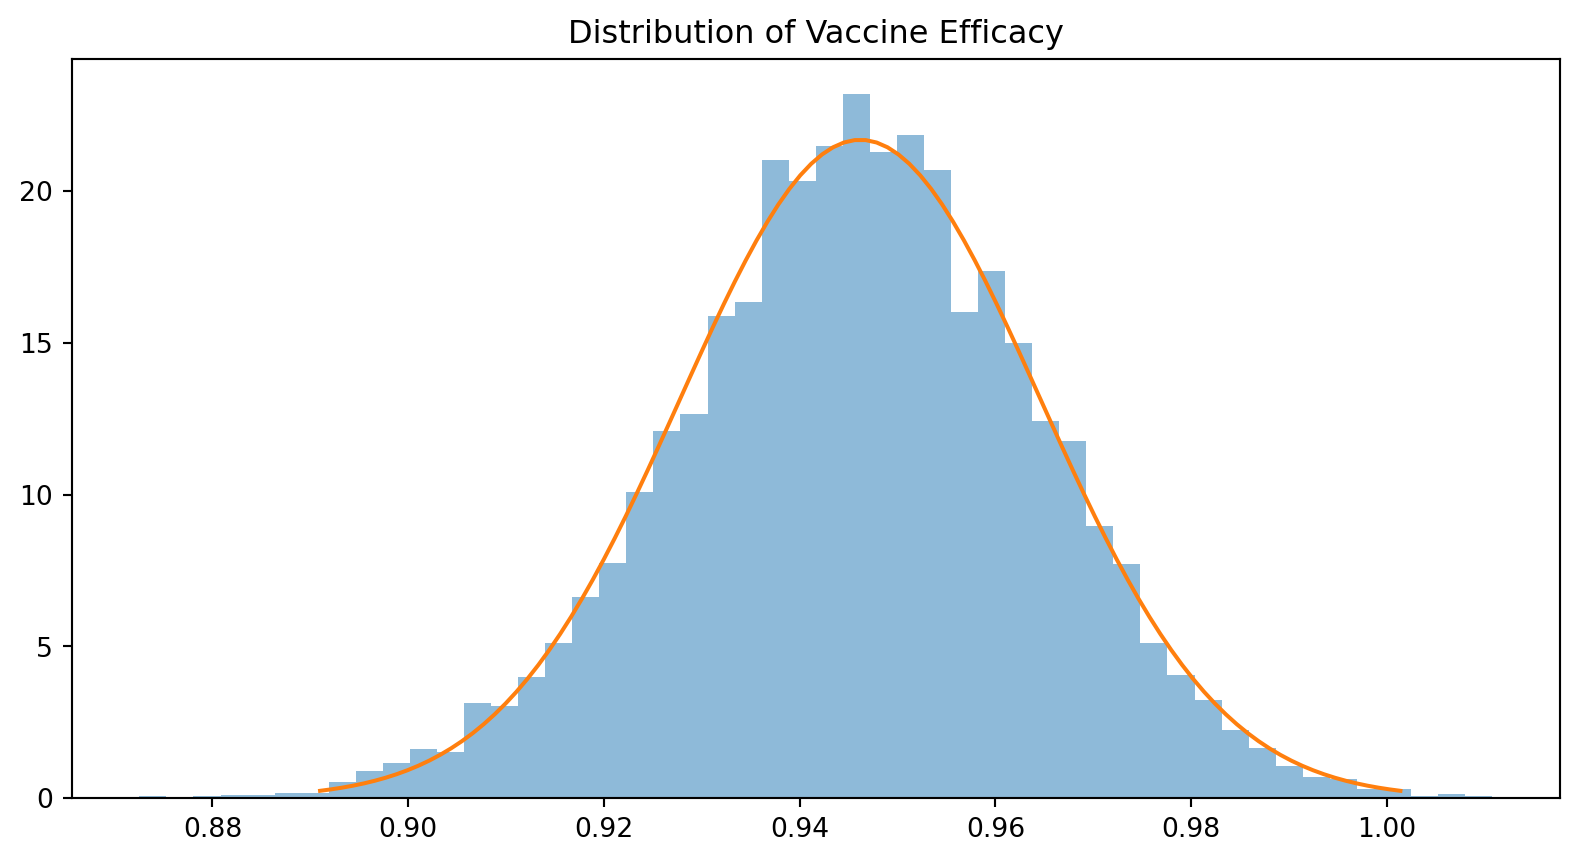
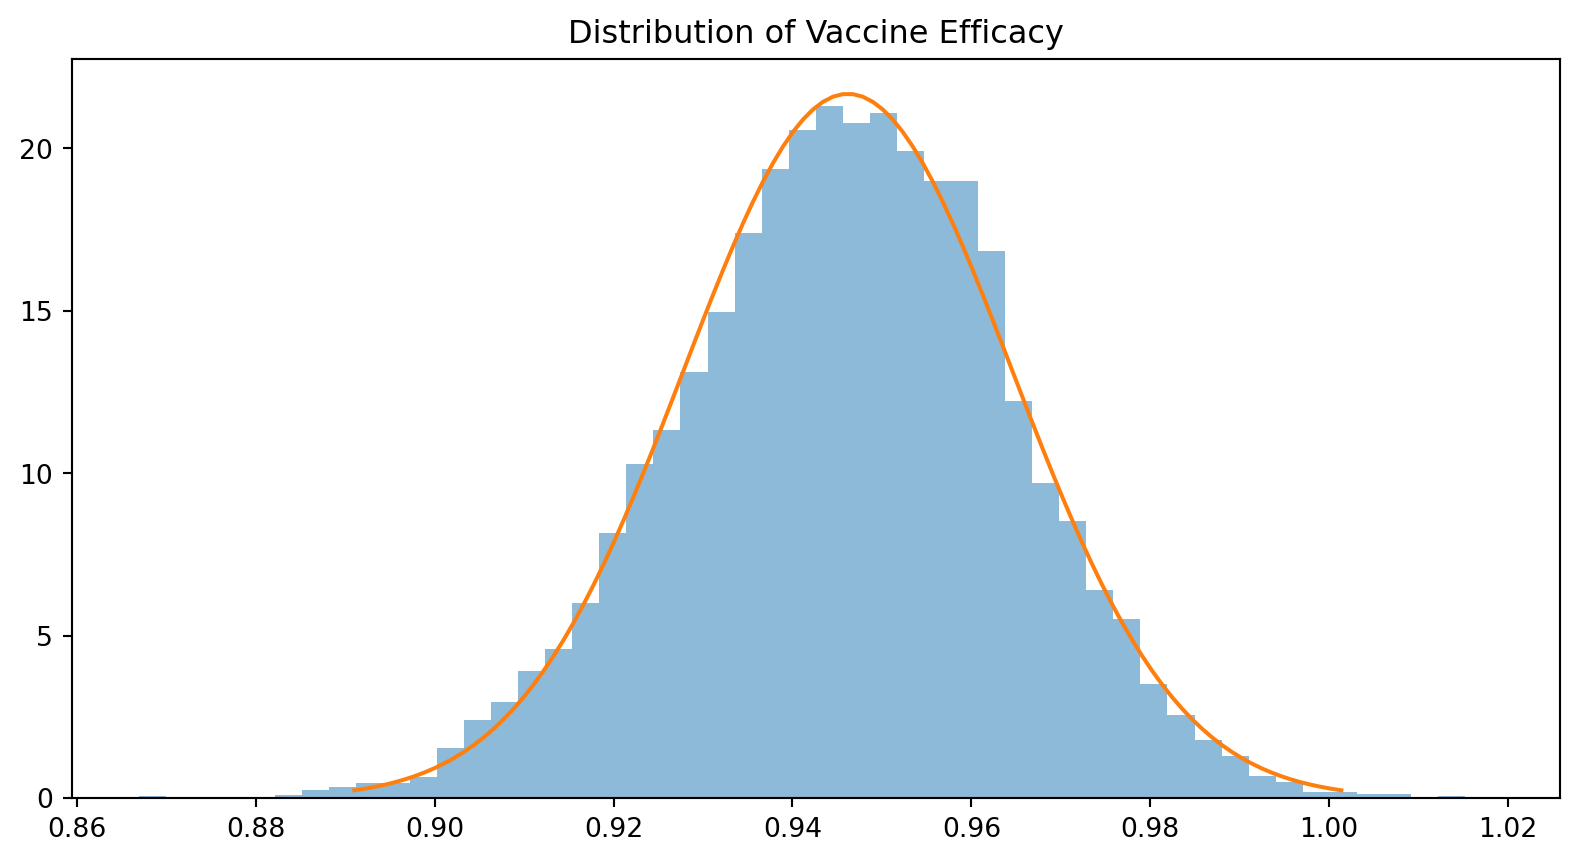
Update to Paul's slides: fix delta method ci

diff --git a/lectures/paul/uncertainty.html b/lectures/paul/uncertainty.html
@@ -522,7 +522,7 @@ P(\widehat{ATE} \in \widehat{CI}_{\alpha}) \approx 1-\alpha
 <li>Confidence interval for <span class="math inline">\(p = P(Y=1)\)</span> with i.i.d. <span class="math inline">\(Y_i \in \{0,1\}\)</span></li>
 <li>Given <span class="math inline">\(P(Y)=p\)</span> can calculate or simulate distribution of <span class="math inline">\(\hat{p} = \frac{1}{n} \sum Y_i\)</span></li>
 </ul>
-<div id="3606605a" class="cell columns column-output-location" data-execution_count="3">
+<div id="0530bbe2" class="cell columns column-output-location" data-execution_count="3">
 <div class="column">
 <div class="code-copy-outer-scaffold"><div class="sourceCode cell-code" id="cb3"><pre class="sourceCode numberSource python number-lines code-with-copy"><code class="sourceCode python"><span id="cb3-1"><a aria-label="1"></a><span class="im">import</span> numpy <span class="im">as</span> np</span>
 <span id="cb3-2"><a aria-label="2"></a><span class="im">import</span> matplotlib.pyplot <span class="im">as</span> plt</span>
@@ -543,7 +543,7 @@ P(\widehat{ATE} \in \widehat{CI}_{\alpha}) \approx 1-\alpha
 <div class="cell-output cell-output-display">
 <div>
 <figure>
-<p><img data-src="uncertainty_files/figure-revealjs/cell-4-output-1.png" width="820" height="431"></p>
+<p><img data-src="uncertainty_files/figure-revealjs/cell-4-output-1.png" width="815" height="431"></p>
 </figure>
 </div>
 </div>
@@ -556,7 +556,7 @@ P(\widehat{ATE} \in \widehat{CI}_{\alpha}) \approx 1-\alpha
 \widehat{CI}_{\alpha}(\hat{p}_{obs}) = \{p: P(|\hat{p}-p| \leq |\hat{p}_{obs} - p|) \leq 1-\alpha \}
 \]</span></li>
 </ul>
-<div id="5ae36df9" class="cell" data-execution_count="4">
+<div id="47f06628" class="cell" data-execution_count="4">
 <div class="code-copy-outer-scaffold"><div class="sourceCode cell-code" id="cb4"><pre class="sourceCode numberSource python number-lines code-with-copy"><code class="sourceCode python"><span id="cb4-1"><a aria-label="1"></a><span class="kw">def</span> proportioncisim(phat, n, level<span class="op">=</span><span class="fl">0.95</span>, S<span class="op">=</span><span class="dv">100_000</span>):</span>
 <span id="cb4-2"><a aria-label="2"></a>    se <span class="op">=</span> (phat<span class="op">*</span>(<span class="dv">1</span><span class="op">-</span>phat)<span class="op">/</span>n)<span class="op">**</span><span class="fl">0.5</span></span>
 <span id="cb4-3"><a aria-label="3"></a>    dp <span class="op">=</span> se<span class="op">/</span><span class="dv">20</span></span>
@@ -585,7 +585,7 @@ P(\widehat{ATE} \in \widehat{CI}_{\alpha}) \approx 1-\alpha
 </section>
 <section id="exact-confidence-interval-1" class="slide level2">
 <h2>Exact Confidence Interval</h2>
-<div id="b213a0e0" class="cell" data-execution_count="5">
+<div id="daace654" class="cell" data-execution_count="5">
 <div class="code-copy-outer-scaffold"><div class="sourceCode cell-code" id="cb6"><pre class="sourceCode numberSource python number-lines code-with-copy"><code class="sourceCode python"><span id="cb6-1"><a aria-label="1"></a><span class="im">import</span> scipy</span>
 <span id="cb6-2"><a aria-label="2"></a><span class="kw">def</span> proportionci(phat, n, level<span class="op">=</span><span class="fl">0.95</span>):</span>
 <span id="cb6-3"><a aria-label="3"></a>    se <span class="op">=</span> (phat<span class="op">*</span>(<span class="dv">1</span><span class="op">-</span>phat)<span class="op">/</span>n)<span class="op">**</span><span class="fl">0.5</span></span>
@@ -615,7 +615,7 @@ Quantile-based:   (0.022320991708517042, 0.11287711726057285)</code></pre>
 </section>
 <section id="exact-confidence-interval-2" class="slide level2">
 <h2>Exact Confidence Interval</h2>
-<div id="9f6e2f7f" class="cell" data-execution_count="6">
+<div id="255a961c" class="cell" data-execution_count="6">
 <div class="code-copy-outer-scaffold"><div class="sourceCode cell-code" id="cb8"><pre class="sourceCode numberSource python number-lines code-with-copy"><code class="sourceCode python"><span id="cb8-1"><a aria-label="1"></a>phat <span class="op">=</span> pfizerall.NYT<span class="op">/</span>pfizerall.NT</span>
 <span id="cb8-2"><a aria-label="2"></a>plo, phi<span class="op">=</span>proportionci(phat,pfizerall.NT)</span>
 <span id="cb8-3"><a aria-label="3"></a><span class="dv">1000</span><span class="op">*</span>plo, <span class="dv">1000</span><span class="op">*</span>phi</span></code></pre></div><button title="Copy to Clipboard" class="code-copy-button"><i class="bi"></i></button></div>
@@ -670,7 +670,7 @@ P\left(\frac{1}{\sqrt{n}} \sum_{i=1}^n X_i \in A \right) - P(N(0,I_d) \in A) \ri
 <aside><ol class="aside-footnotes"><li id="fn1"><p>See <span class="citation" data-cites="raic2019">Raič (<a href="#/references" role="doc-biblioref" onclick="">2019</a>)</span> for details and <span class="citation" data-cites="cck2023">Chernozhukov et al. (<a href="#/references" role="doc-biblioref" onclick="">2023</a>)</span> for a similar result for higher dimensions (larger <span class="math inline">\(d\)</span>)</p></li></ol></aside></section>
 <section id="simulated-illustration-of-berry-esseen-clt" class="slide level2">
 <h2>Simulated Illustration of Berry-Esseen CLT</h2>
-<div id="5ccfae57" class="cell" data-execution_count="7">
+<div id="b8747853" class="cell" data-execution_count="7">
 <div class="code-copy-outer-scaffold"><div class="sourceCode cell-code" id="cb10"><pre class="sourceCode numberSource python number-lines code-with-copy"><code class="sourceCode python"><span id="cb10-1"><a aria-label="1"></a><span class="im">import</span> seaborn <span class="im">as</span> sns</span>
 <span id="cb10-2"><a aria-label="2"></a><span class="kw">def</span> dgp(n, xhi<span class="op">=</span><span class="dv">2</span>):</span>
 <span id="cb10-3"><a aria-label="3"></a>    p <span class="op">=</span> <span class="dv">1</span><span class="op">/</span>(<span class="dv">1</span><span class="op">+</span>xhi<span class="op">**</span><span class="dv">2</span>)</span>
@@ -724,7 +724,7 @@ P\left(\frac{1}{\sqrt{n}} \sum_{i=1}^n X_i \in A \right) - P(N(0,I_d) \in A) \ri
 </section>
 <section id="simulated-illustration-of-berry-esseen-clt-output" class="slide level2 output-location-slide"><h2>Simulated Illustration of Berry-Esseen CLT</h2><div class="cell output-location-slide" data-execution_count="7">
 <div class="cell-output cell-output-stdout">
-<pre><code>var(x) is about 1.0
+<pre><code>var(x) is about 0.99
 E[|x|^3] is about 1.7, exact is 1.7</code></pre>
 </div>
 <div class="cell-output cell-output-display">
@@ -736,7 +736,7 @@ E[|x|^3] is about 1.7, exact is 1.7</code></pre>
 </div>
 </div></section><section id="approximate-confidence-interval-1" class="slide level2">
 <h2>Approximate Confidence Interval</h2>
-<div id="95e3b3bb" class="cell" data-execution_count="8">
+<div id="51a8b35d" class="cell" data-execution_count="8">
 <div class="code-copy-outer-scaffold"><div class="sourceCode cell-code" id="cb12"><pre class="sourceCode numberSource python number-lines code-with-copy"><code class="sourceCode python"><span id="cb12-1"><a aria-label="1"></a><span class="kw">def</span> normalci(estimate, se, level<span class="op">=</span><span class="fl">0.95</span>):</span>
 <span id="cb12-2"><a aria-label="2"></a>    <span class="cf">return</span> (estimate <span class="op">+</span> se<span class="op">*</span>scipy.stats.norm.ppf((<span class="dv">1</span><span class="op">-</span>level)<span class="op">/</span><span class="dv">2</span>),</span>
 <span id="cb12-3"><a aria-label="3"></a>            estimate <span class="op">+</span> se<span class="op">*</span>scipy.stats.norm.ppf(<span class="dv">1</span><span class="op">-</span>(<span class="dv">1</span><span class="op">-</span>level)<span class="op">/</span><span class="dv">2</span>))</span>
@@ -749,7 +749,7 @@ E[|x|^3] is about 1.7, exact is 1.7</code></pre>
 <pre><code>(np.float64(0.1563452787741701), np.float64(0.7452324823077232))</code></pre>
 </div>
 </div>
-<div id="133459e7" class="cell" data-execution_count="9">
+<div id="9a85f9df" class="cell" data-execution_count="9">
 <div class="code-copy-outer-scaffold"><div class="sourceCode cell-code" id="cb14"><pre class="sourceCode numberSource python number-lines code-with-copy"><code class="sourceCode python"><span id="cb14-1"><a aria-label="1"></a><span class="kw">def</span> differenceci(e1,se1, e0, se0, level<span class="op">=</span><span class="fl">0.95</span>) :</span>
 <span id="cb14-2"><a aria-label="2"></a>    diff <span class="op">=</span> e1 <span class="op">-</span> e0</span>
 <span id="cb14-3"><a aria-label="3"></a>    se <span class="op">=</span> (se1<span class="op">*</span>se1 <span class="op">+</span> se0<span class="op">*</span>se0)<span class="op">**</span><span class="fl">0.5</span></span>
@@ -812,7 +812,7 @@ g(\hat{\theta}) \leadsto N\left(g(\theta_0), D(g)(\theta_0) \Omega D(g)(\theta_0
 </section>
 <section id="delta-method-2" class="slide level2">
 <h2>Delta Method</h2>
-<div id="e17fecf5" class="cell" data-execution_count="10">
+<div id="48232ce4" class="cell" data-execution_count="10">
 <div class="code-copy-outer-scaffold"><div class="sourceCode cell-code" id="cb16"><pre class="sourceCode numberSource python number-lines code-with-copy"><code class="sourceCode python"><span id="cb16-1"><a aria-label="1"></a><span class="im">import</span> torch</span>
 <span id="cb16-2"><a aria-label="2"></a></span>
 <span id="cb16-3"><a aria-label="3"></a>theta <span class="op">=</span> [p0, phat]</span>
@@ -846,7 +846,7 @@ g(\hat{\theta}) \leadsto N\left(g(\theta_0), D(g)(\theta_0) \Omega D(g)(\theta_0
 </section>
 <section id="simulated-distribution-of-vaccine-efficacy" class="slide level2">
 <h2>Simulated Distribution of Vaccine Efficacy</h2>
-<div id="7c9848fd" class="cell columns column-output-location" data-execution_count="11">
+<div id="34d0ed55" class="cell columns column-output-location" data-execution_count="11">
 <div class="column">
 <div class="code-copy-outer-scaffold"><div class="sourceCode cell-code" id="cb18"><pre class="sourceCode numberSource python number-lines code-with-copy"><code class="sourceCode python"><span id="cb18-1"><a aria-label="1"></a><span class="kw">def</span> simulateg(g,theta,Omega,S<span class="op">=</span><span class="dv">10_000</span>):</span>
 <span id="cb18-2"><a aria-label="2"></a>    thetas <span class="op">=</span> np.random.multivariate_normal(theta, Omega, S)</span>
@@ -865,7 +865,7 @@ g(\hat{\theta}) \leadsto N\left(g(\theta_0), D(g)(\theta_0) \Omega D(g)(\theta_0
 <span id="cb18-15"><a aria-label="15"></a>plt.show()</span></code></pre></div><button title="Copy to Clipboard" class="code-copy-button"><i class="bi"></i></button></div>
 </div><div class="column">
 <div class="cell-output cell-output-stdout">
-<pre><code>simulation se = 0.018</code></pre>
+<pre><code>simulation se = 0.019</code></pre>
 </div>
 <div class="cell-output cell-output-display">
 <div>
@@ -882,16 +882,16 @@ g(\hat{\theta}) \leadsto N\left(g(\theta_0), D(g)(\theta_0) \Omega D(g)(\theta_0
 <li>All three approaches should give similar results</li>
 <li>Statsmodels computes a Wald interval on the log risk-ratio scale, which is the same idea as the delta method</li>
 </ul>
-<div id="c03161bd" class="cell" data-execution_count="12">
+<div id="5c655180" class="cell" data-execution_count="12">
 <div class="code-copy-outer-scaffold"><div class="sourceCode cell-code" id="cb20"><pre class="sourceCode numberSource python number-lines code-with-copy"><code class="sourceCode python"><span id="cb20-1"><a aria-label="1"></a>vesim <span class="op">=</span> np.percentile(gs, [<span class="fl">2.5</span>, <span class="fl">97.5</span>])</span>
-<span id="cb20-2"><a aria-label="2"></a>vedm <span class="op">=</span> normalci(ve(theta), deltamethod(ve,theta,Omega))</span>
+<span id="cb20-2"><a aria-label="2"></a>vedm <span class="op">=</span> normalci(ve(theta), np.sqrt(deltamethod(ve,theta,Omega)))</span>
 <span id="cb20-3"><a aria-label="3"></a>vesm <span class="op">=</span> pfizerall.VE()[<span class="dv">1</span>]</span>
 <span id="cb20-4"><a aria-label="4"></a><span class="bu">print</span>(<span class="ss">f"Simulation:  [</span><span class="sc">{</span>vesim[<span class="dv">0</span>]<span class="sc">:.3}</span><span class="ss">, </span><span class="sc">{</span>vesim[<span class="dv">1</span>]<span class="sc">:.3}</span><span class="ss">]"</span>)</span>
 <span id="cb20-5"><a aria-label="5"></a><span class="bu">print</span>(<span class="ss">f"Delta method: [</span><span class="sc">{</span>vedm[<span class="dv">0</span>]<span class="sc">:.3}</span><span class="ss">, </span><span class="sc">{</span>vedm[<span class="dv">1</span>]<span class="sc">:.3}</span><span class="ss">]"</span>)</span>
 <span id="cb20-6"><a aria-label="6"></a><span class="bu">print</span>(<span class="ss">f"Statsmodels:  [</span><span class="sc">{</span>vesm[<span class="dv">0</span>]<span class="sc">:.3}</span><span class="ss">, </span><span class="sc">{</span>vesm[<span class="dv">1</span>]<span class="sc">:.3}</span><span class="ss">]"</span>)</span></code></pre></div><button title="Copy to Clipboard" class="code-copy-button"><i class="bi"></i></button></div>
 <div class="cell-output cell-output-stdout">
 <pre><code>Simulation:  [0.908, 0.981]
-Delta method: [0.946, 0.947]
+Delta method: [0.91, 0.982]
 Statsmodels:  [0.895, 0.972]</code></pre>
 </div>
 </div>
@@ -917,7 +917,7 @@ Statsmodels:  [0.895, 0.972]</code></pre>
 </section>
 <section id="bootstrap-2" class="slide level2">
 <h2>Bootstrap</h2>
-<div id="388cfda0" class="cell" data-execution_count="13">
+<div id="7c47c360" class="cell" data-execution_count="13">
 <div class="code-copy-outer-scaffold"><div class="sourceCode cell-code" id="cb22"><pre class="sourceCode numberSource python number-lines code-with-copy"><code class="sourceCode python"><span id="cb22-1"><a aria-label="1"></a>np.random.seed(<span class="dv">6987</span>)</span>
 <span id="cb22-2"><a aria-label="2"></a><span class="kw">def</span> lognormal_dgp(n):</span>
 <span id="cb22-3"><a aria-label="3"></a>    x <span class="op">=</span> np.exp(<span class="bu">abs</span>(np.random.normal(<span class="dv">0</span>,<span class="dv">1</span>,n)))</span>
@@ -983,7 +983,7 @@ t = \sqrt{n}(\bar{x} - \Er[x])/\hat{\sigma}_x \leadsto N(0, 1)
 </section>
 <section id="bootstrap-for-pivotal-statistic" class="slide level2">
 <h2>Bootstrap for Pivotal Statistic</h2>
-<div id="5e82aacc" class="cell" data-execution_count="14">
+<div id="88e62c57" class="cell" data-execution_count="14">
 <div class="code-copy-outer-scaffold"><div class="sourceCode cell-code" id="cb23"><pre class="sourceCode numberSource python number-lines code-with-copy"><code class="sourceCode python"><span id="cb23-1"><a aria-label="1"></a>np.random.seed(<span class="dv">6987</span>)</span>
 <span id="cb23-2"><a aria-label="2"></a><span class="kw">def</span> estimator(data) :</span>
 <span id="cb23-3"><a aria-label="3"></a>    <span class="cf">return</span> np.mean(data), np.std(data)<span class="op">/</span>np.sqrt(<span class="bu">len</span>(data))</span>
@@ -1033,7 +1033,7 @@ t = \sqrt{n}(\bar{x} - \Er[x])/\hat{\sigma}_x \leadsto N(0, 1)
 </div>
 </div></section><section id="bootstrap-confidence-interval" class="slide level2">
 <h2>Bootstrap Confidence Interval</h2>
-<div id="09f4aa05" class="cell" data-execution_count="15">
+<div id="08a0fccf" class="cell" data-execution_count="15">
 <div class="code-copy-outer-scaffold"><div class="sourceCode cell-code" id="cb24"><pre class="sourceCode numberSource python number-lines code-with-copy"><code class="sourceCode python"><span id="cb24-1"><a aria-label="1"></a><span class="kw">def</span> bootstrapci(data, estimator, B<span class="op">=</span><span class="dv">999</span>, level<span class="op">=</span><span class="fl">0.95</span>):</span>
 <span id="cb24-2"><a aria-label="2"></a>    estimates <span class="op">=</span> bootstrap(data, estimator, B)</span>
 <span id="cb24-3"><a aria-label="3"></a>    lo <span class="op">=</span> np.percentile(estimates, <span class="dv">100</span><span class="op">*</span>(<span class="dv">1</span><span class="op">-</span>level)<span class="op">/</span><span class="dv">2</span>) <span class="op">+</span> estimator(data)</span>

diff --git a/lectures/paul/feed.html b/lectures/paul/feed.html
@@ -583,7 +583,7 @@ Paul Schrimpf
 </a>
 </div>
 </div>
-<div class="quarto-post image-right" data-index="14" data-listing-file-modified-sort="1793635998873" data-listing-reading-time-sort="12" data-listing-word-count-sort="2257">
+<div class="quarto-post image-right" data-index="14" data-listing-file-modified-sort="1793636870306" data-listing-reading-time-sort="12" data-listing-word-count-sort="2257">
 <div class="thumbnail"><a href="./uncertainty.html" class="no-external-icon" aria-hidden="true" tabindex="-1">
 
 <div class="listing-item-img-placeholder card-img-top" >&nbsp;</div>
